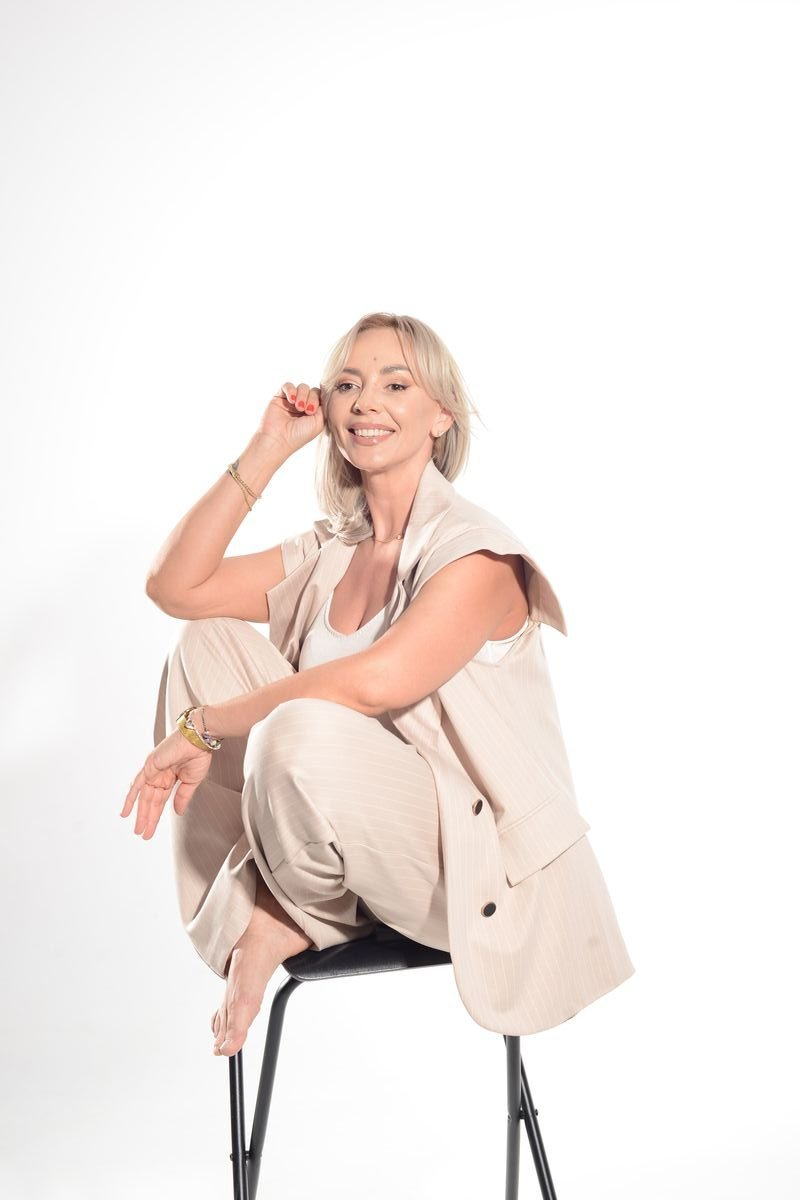
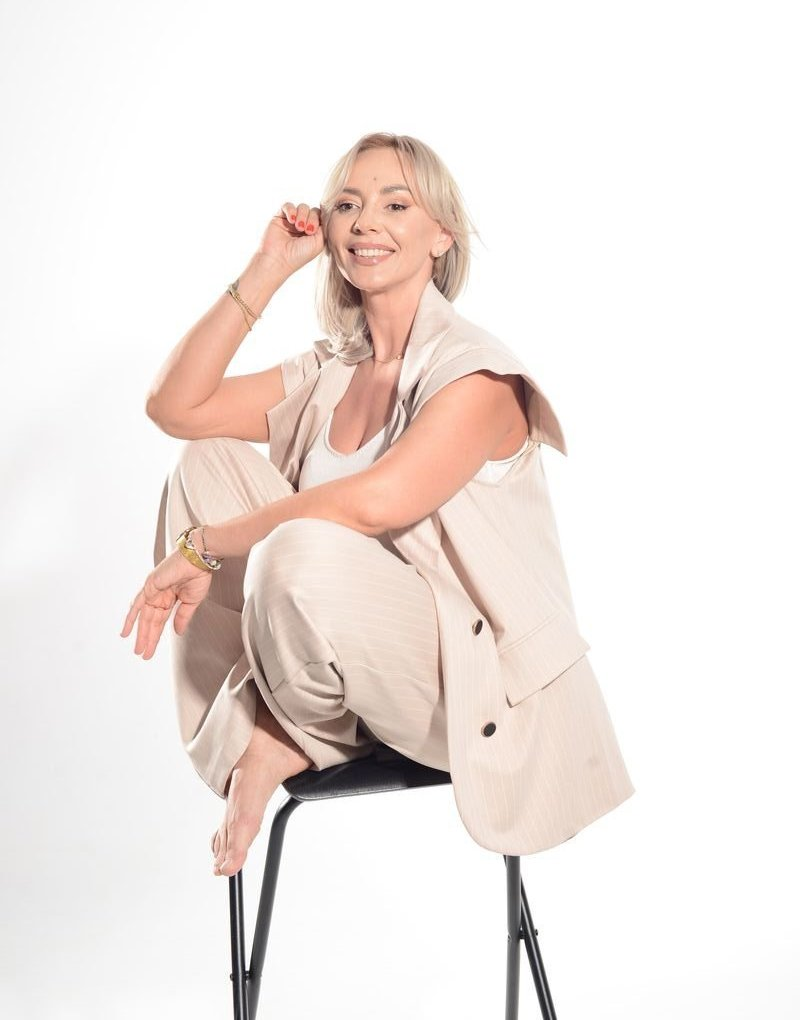
Add files via upload

Changed region(s): [[0.1562, 0.1216, 0.8125, 1.0]]

diff --git a/src/app/retreaturi/mind-soul/MindSoulContent.tsx b/src/app/retreaturi/mind-soul/MindSoulContent.tsx
@@ -93,9 +93,9 @@ const team = [
   },
   {
     name: "Denisse Adlah",
-    role: "Coach dezvoltare personala | Ghid procese autocunoastere | Terapeut EFT | Studenta psihologie",
+    role: "Consilier multidisciplinar in dezvoltare personala | EFT | Psihologie & autocunoastere",
     photo: "/images/retreat/denisse-solo.jpg",
-    bio: "Ma numesc Denisse si cred ca fiecare om are o harta interioara unica, iar rolul meu este sa te ajut sa o intelegi mai clar.\n\nSunt coach autorizat in dezvoltare personala, astrolog si studenta la psihologie, cu formare in Terapia Focusata pe Emotii (EFT). Am ales acest mix pentru ca sunt interesata de felul in care gandim, simtim si ne schimbam cu adevarat.\n\nAstrologia imi arata tiparele mai profunde ale fiintei, coaching-ul ofera directie si instrumente de schimbare, iar EFT-ul lucreaza cu emotiile si corpul atunci cand mintea nu mai gaseste raspunsuri. Psihologia completeaza aceasta intelegere a omului in profunzime.\n\nIn acest retreat, creez un spatiu in care iti poti observa tiparele de relationare si reactie, nu pentru a le judeca, ci pentru a le intelege si transforma. Lucrez cu blandetea, claritate si respect pentru ritmul fiecarei femei.",
+    bio: "Ma numesc Denisse si cred ca fiecare om are o harta interioara unica, iar rolul meu este sa te ajut sa o intelegi mai clar.\n\nSunt consilier multidisciplinar in dezvoltare personala, astrolog profesionist si studenta la psihologie, cu formare in Terapia Focusata pe Emotii (EFT). Am ales acest mix pentru ca sunt interesata de felul in care gandim, simtim si ne schimbam cu adevarat.\n\nAstrologia imi arata tiparele mai profunde ale fiintei, consilierea ofera directie si instrumente de schimbare, iar EFT-ul lucreaza cu emotiile si corpul atunci cand mintea nu mai gaseste raspunsuri. Psihologia completeaza aceasta intelegere a omului in profunzime.\n\nIn acest retreat, creez un spatiu in care iti poti observa tiparele de relationare si reactie, nu pentru a le judeca, ci pentru a le intelege si transforma. Lucrez cu blandetze, claritate si respect pentru ritmul fiecarei femei.",
     instagram: "",
     facebook: "",
   },
@@ -318,23 +318,18 @@ export default function MindSoulContent() {
         </div>
       </section>
 
-      {/* Interstitial: Sunset terrace */}
-      <section className="w-full">
-        <img src="/images/retreat/sunset-terrace.jpg" alt="Terasa la apus" className="w-full h-[400px] md:h-[550px] object-cover object-center" />
-      </section>
-
       {/* De ce nu sunt fericita — ZIGZAG: Dina left, text right */}
       <section className="py-20 px-6 bg-white">
         <div className="max-w-[1100px] mx-auto">
           <Reveal>
             <div className="flex flex-col md:flex-row gap-10 items-center">
-              <div className="w-full md:w-[40%] flex-shrink-0 rounded-2xl overflow-hidden" style={{ boxShadow: "0 8px 30px rgba(0,0,0,0.1)" }}>
-                <img src="/images/retreat/dina-sitting.jpg" alt="Dina Gheorghian" className="w-full h-auto" />
+              <div className="w-full md:w-[40%] flex-shrink-0 rounded-2xl overflow-hidden" style={{ boxShadow: "0 8px 30px rgba(0,0,0,0.1)", maxHeight: "450px" }}>
+                <img src="/images/retreat/dina-sitting.jpg" alt="Dina Gheorghian" className="w-full h-full object-cover object-top" />
               </div>
               <div className="flex-1">
                 <p className="font-serif text-2xl md:text-3xl italic mb-8" style={{ color: "#1a1a1a" }}>"De ce nu sunt fericita?"</p>
                 <p className="text-[16px] leading-[1.9] font-light mb-5" style={{ color: "#2a2a2a" }}>
-                  Poate nu stii exact ce te face sa te simti asa. Poate stii, dar nu reusesti sa schimbi ceva. Sau poate esti pur si simplu obosita sa mai duci\u00a0totul.
+                  Poate nu stii exact ce te face sa te simti asa. Poate stii, dar nu reusesti sa schimbi ceva. Sau poate esti pur si simplu obosita sa mai duci totul.
                 </p>
                 <p className="text-[16px] leading-[1.9] font-light mb-5" style={{ color: "#2a2a2a" }}>
                   In retreatul Mind & Soul ai un spatiu creat pentru femeia care a dat tot si a uitat de ea insasi. Aici te opresti din ritmul zilnic si incepi sa te intelegi cu adevarat. Te eliberezi de emotiile si blocajele din trecut care iti influenteaza prezentul, inveti sa iti observi mintea si tiparele si incepi sa creezi mai constient directia in care vrei sa mergi.
@@ -387,7 +382,7 @@ export default function MindSoulContent() {
 
       {/* Interstitial: Trio close-up */}
       <section className="w-full">
-        <img src="/images/retreat/trio-closeup.jpg" alt="Echipa Mind & Soul" className="w-full h-[400px] md:h-[550px] object-cover object-top" />
+        <img src="/images/retreat/trio-closeup.jpg" alt="Echipa Mind & Soul" className="w-full h-auto" />
       </section>
 
       {/* Ce facem impreuna — ZIGZAG: text left, golden room right */}
@@ -468,9 +463,9 @@ export default function MindSoulContent() {
           <div className="space-y-16">
             {team.map((t, i) => (
               <Reveal key={t.name} delay={i * 0.1}>
-                <div className={`flex flex-col ${i % 2 === 0 ? "md:flex-row" : "md:flex-row-reverse"} gap-10 items-center md:items-start`}>
-                  <div className="w-full md:w-[40%] rounded-2xl overflow-hidden flex-shrink-0" style={{ border: "2px solid rgba(212,176,96,0.15)", boxShadow: "0 8px 30px rgba(0,0,0,0.1)" }}>
-                    <img src={t.photo} alt={t.name} className="w-full h-auto object-cover object-top" />
+                <div className={`flex flex-col ${i % 2 === 0 ? "md:flex-row" : "md:flex-row-reverse"} gap-10 items-center md:items-center`}>
+                  <div className="w-full md:w-[35%] h-[400px] md:h-[450px] rounded-2xl overflow-hidden flex-shrink-0" style={{ border: "2px solid rgba(212,176,96,0.15)", boxShadow: "0 8px 30px rgba(0,0,0,0.1)" }}>
+                    <img src={t.photo} alt={t.name} className="w-full h-full object-cover object-top" />
                   </div>
                   <div className={`flex-1 text-center ${i % 2 === 0 ? "md:text-left" : "md:text-right"}`}>
                     <h3 className="font-serif text-[22px] font-semibold mb-1" style={{ color: "#1a1a1a" }}>{t.name}</h3>
